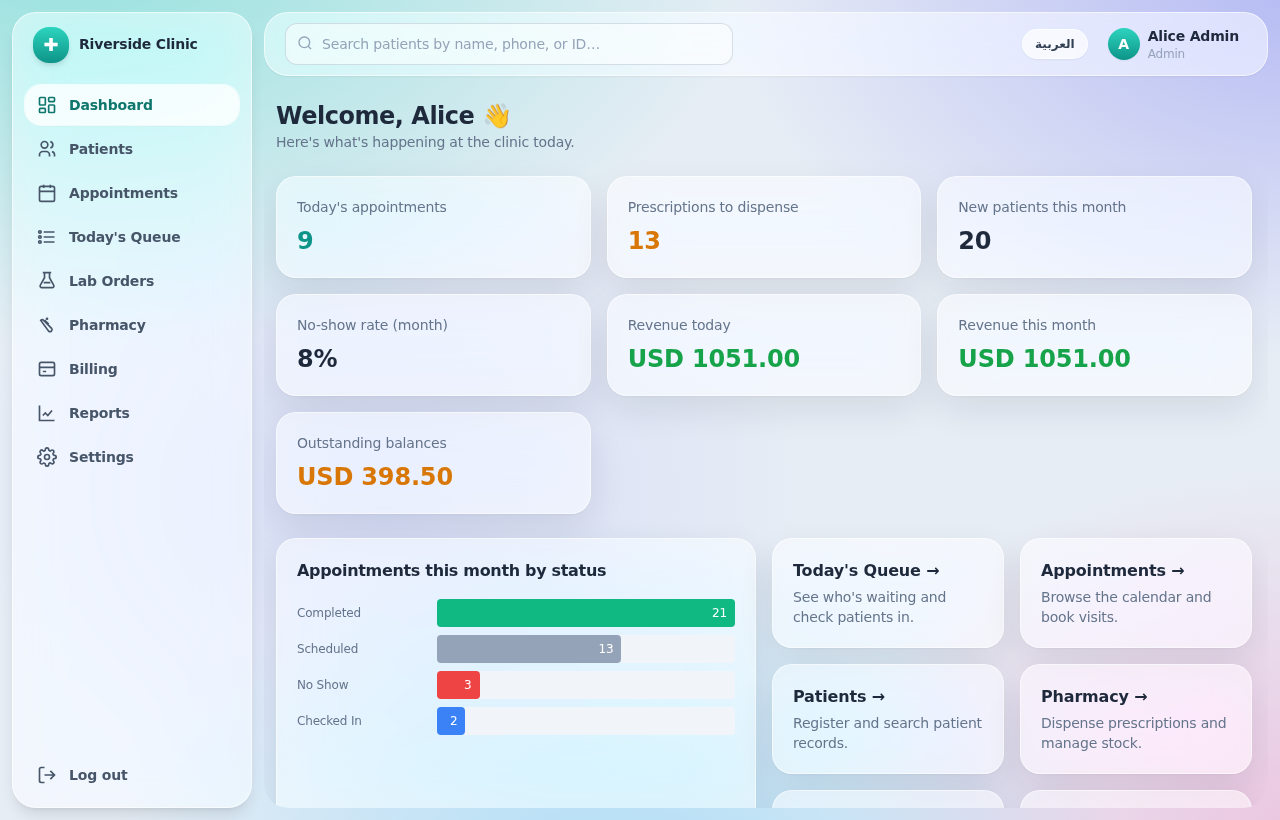
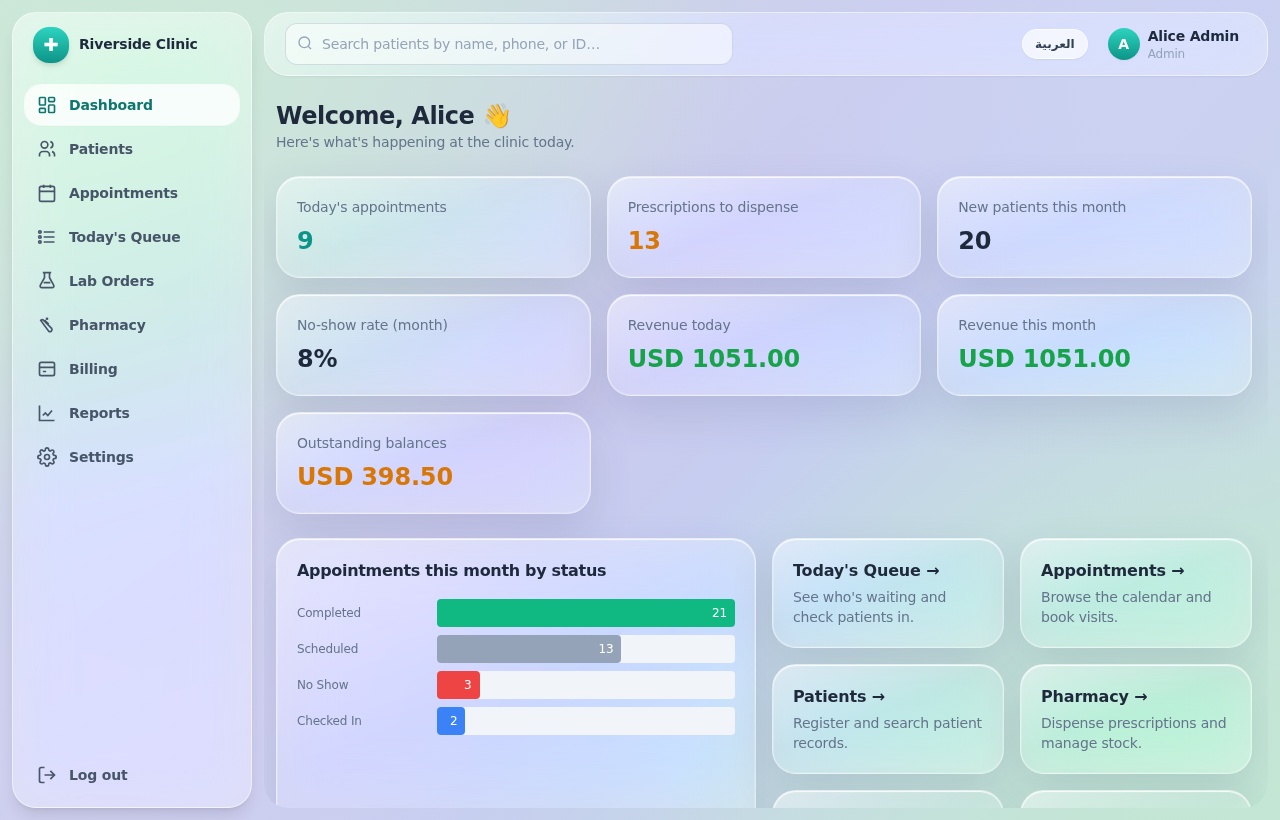
Match reference glass aesthetic: pastel wash + glossy reflective, more transparent surfaces
- Background is now a soft pastel mint<->lavender wash (per the reference) instead of
  saturated blooms, so frosted surfaces read as clear glass over colour
- Glass/card surfaces are more see-through with a glossy 'reflection': a top-to-bottom
  white sheen gradient plus a bright inner top-edge highlight (inset shadow)
- Larger card radius; refreshed dashboard docs screenshot

Claude-Session: https://claude.ai/code/session_01SWaqKmCLARszD8DgTb69su

diff --git a/client/src/index.css b/client/src/index.css
@@ -20,14 +20,15 @@ body {
   -moz-osx-font-smoothing: grayscale;
   letter-spacing: -0.011em;
 
-  /* Ambient, colourful backdrop so frosted surfaces visibly refract light */
-  background-color: #e7edf5;
+  /* Soft pastel mint <-> lavender wash (as in the reference) so the frosted
+     surfaces read as clear glass floating over colour. */
+  background-color: #cde0d8;
   background-image:
-    radial-gradient(1200px 720px at 6% -8%, rgba(45, 212, 191, 0.45), transparent 58%),
-    radial-gradient(1050px 680px at 102% -2%, rgba(99, 102, 241, 0.38), transparent 55%),
-    radial-gradient(950px 720px at 48% 112%, rgba(56, 189, 248, 0.34), transparent 55%),
-    radial-gradient(820px 640px at 100% 100%, rgba(244, 114, 182, 0.30), transparent 55%),
-    radial-gradient(700px 560px at 30% 60%, rgba(129, 140, 248, 0.18), transparent 60%);
+    radial-gradient(1100px 820px at 10% 8%, #cbe8d7 0%, transparent 55%),
+    radial-gradient(1000px 900px at 92% 94%, #c2e6d4 0%, transparent 55%),
+    radial-gradient(950px 820px at 88% 12%, #ccd2f2 0%, transparent 52%),
+    radial-gradient(900px 800px at 8% 90%, #cfd0f0 0%, transparent 52%),
+    linear-gradient(135deg, #d0e6da 0%, #cbcaee 46%, #c5cef0 60%, #c8e6d8 100%);
   background-attachment: fixed;
   background-repeat: no-repeat;
 }
@@ -58,18 +59,32 @@ h1, h2, h3 {
 }
 
 @layer components {
-  /* ---- Glass surfaces ------------------------------------------------- */
+  /* ---- Glass surfaces -------------------------------------------------
+     The top-to-bottom white sheen + bright inner top edge simulate a glossy
+     reflection; low mid-opacity keeps the surface see-through. */
   .glass {
-    background: rgba(255, 255, 255, 0.52);
-    backdrop-filter: blur(24px) saturate(190%);
-    -webkit-backdrop-filter: blur(24px) saturate(190%);
-    border: 1px solid rgba(255, 255, 255, 0.6);
+    background: linear-gradient(
+      160deg,
+      rgba(255, 255, 255, 0.55) 0%,
+      rgba(255, 255, 255, 0.28) 42%,
+      rgba(255, 255, 255, 0.34) 100%
+    );
+    backdrop-filter: blur(26px) saturate(200%);
+    -webkit-backdrop-filter: blur(26px) saturate(200%);
+    border: 1px solid rgba(255, 255, 255, 0.5);
+    box-shadow: inset 0 1px 1px rgba(255, 255, 255, 0.9), inset 0 0 0 1px rgba(255, 255, 255, 0.18);
   }
   .glass-strong {
-    background: rgba(255, 255, 255, 0.78);
-    backdrop-filter: blur(30px) saturate(190%);
-    -webkit-backdrop-filter: blur(30px) saturate(190%);
+    background: linear-gradient(
+      160deg,
+      rgba(255, 255, 255, 0.82) 0%,
+      rgba(255, 255, 255, 0.62) 45%,
+      rgba(255, 255, 255, 0.7) 100%
+    );
+    backdrop-filter: blur(34px) saturate(200%);
+    -webkit-backdrop-filter: blur(34px) saturate(200%);
     border: 1px solid rgba(255, 255, 255, 0.7);
+    box-shadow: inset 0 1px 1px rgba(255, 255, 255, 0.95);
   }
 
   /* ---- Buttons (pill, tactile) --------------------------------------- */
@@ -111,14 +126,20 @@ h1, h2, h3 {
     background: rgba(148, 163, 184, 0.16);
   }
 
-  /* ---- Cards ---------------------------------------------------------- */
+  /* ---- Cards (glossy, translucent) ----------------------------------- */
   .card {
-    background: rgba(255, 255, 255, 0.55);
-    backdrop-filter: blur(26px) saturate(190%);
-    -webkit-backdrop-filter: blur(26px) saturate(190%);
-    border: 1px solid rgba(255, 255, 255, 0.55);
-    border-radius: 1.25rem;
-    box-shadow: 0 1px 2px rgba(15, 23, 42, 0.04), 0 14px 36px rgba(15, 23, 42, 0.09);
+    background: linear-gradient(
+      160deg,
+      rgba(255, 255, 255, 0.5) 0%,
+      rgba(255, 255, 255, 0.2) 45%,
+      rgba(255, 255, 255, 0.3) 100%
+    );
+    backdrop-filter: blur(28px) saturate(200%);
+    -webkit-backdrop-filter: blur(28px) saturate(200%);
+    border: 1px solid rgba(255, 255, 255, 0.45);
+    border-radius: 1.5rem;
+    box-shadow: inset 0 1px 1px rgba(255, 255, 255, 0.85), inset 0 0 0 1px rgba(255, 255, 255, 0.12),
+      0 18px 44px rgba(60, 70, 110, 0.14);
   }
 
   /* ---- Inputs --------------------------------------------------------- */
